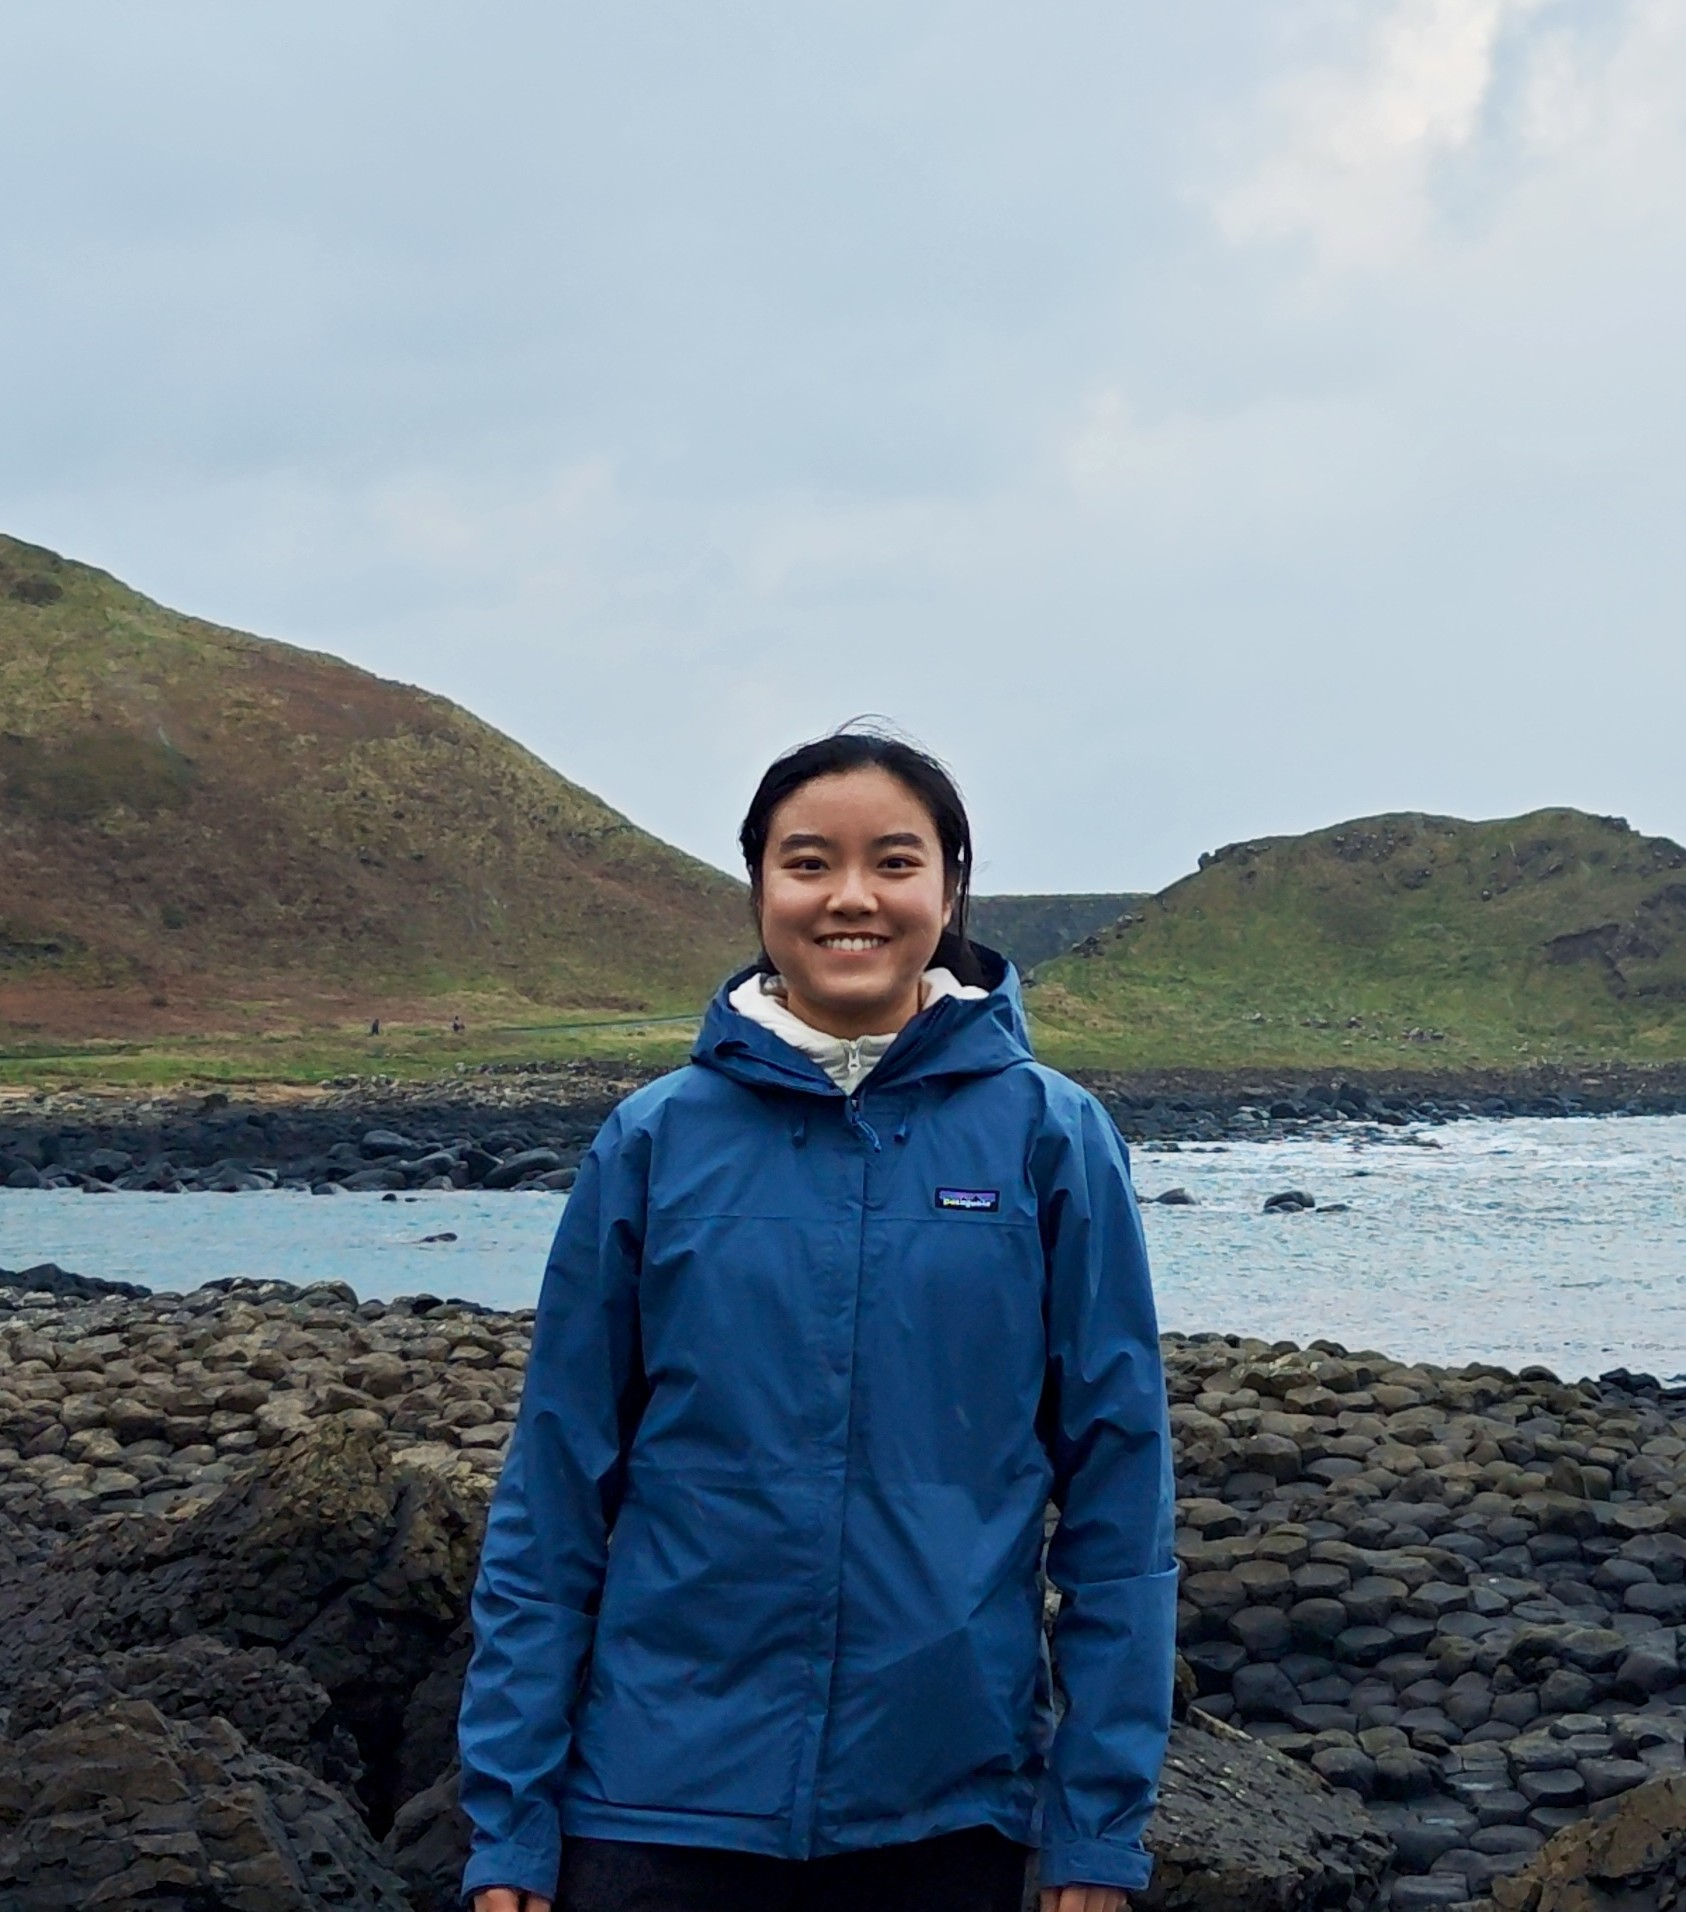
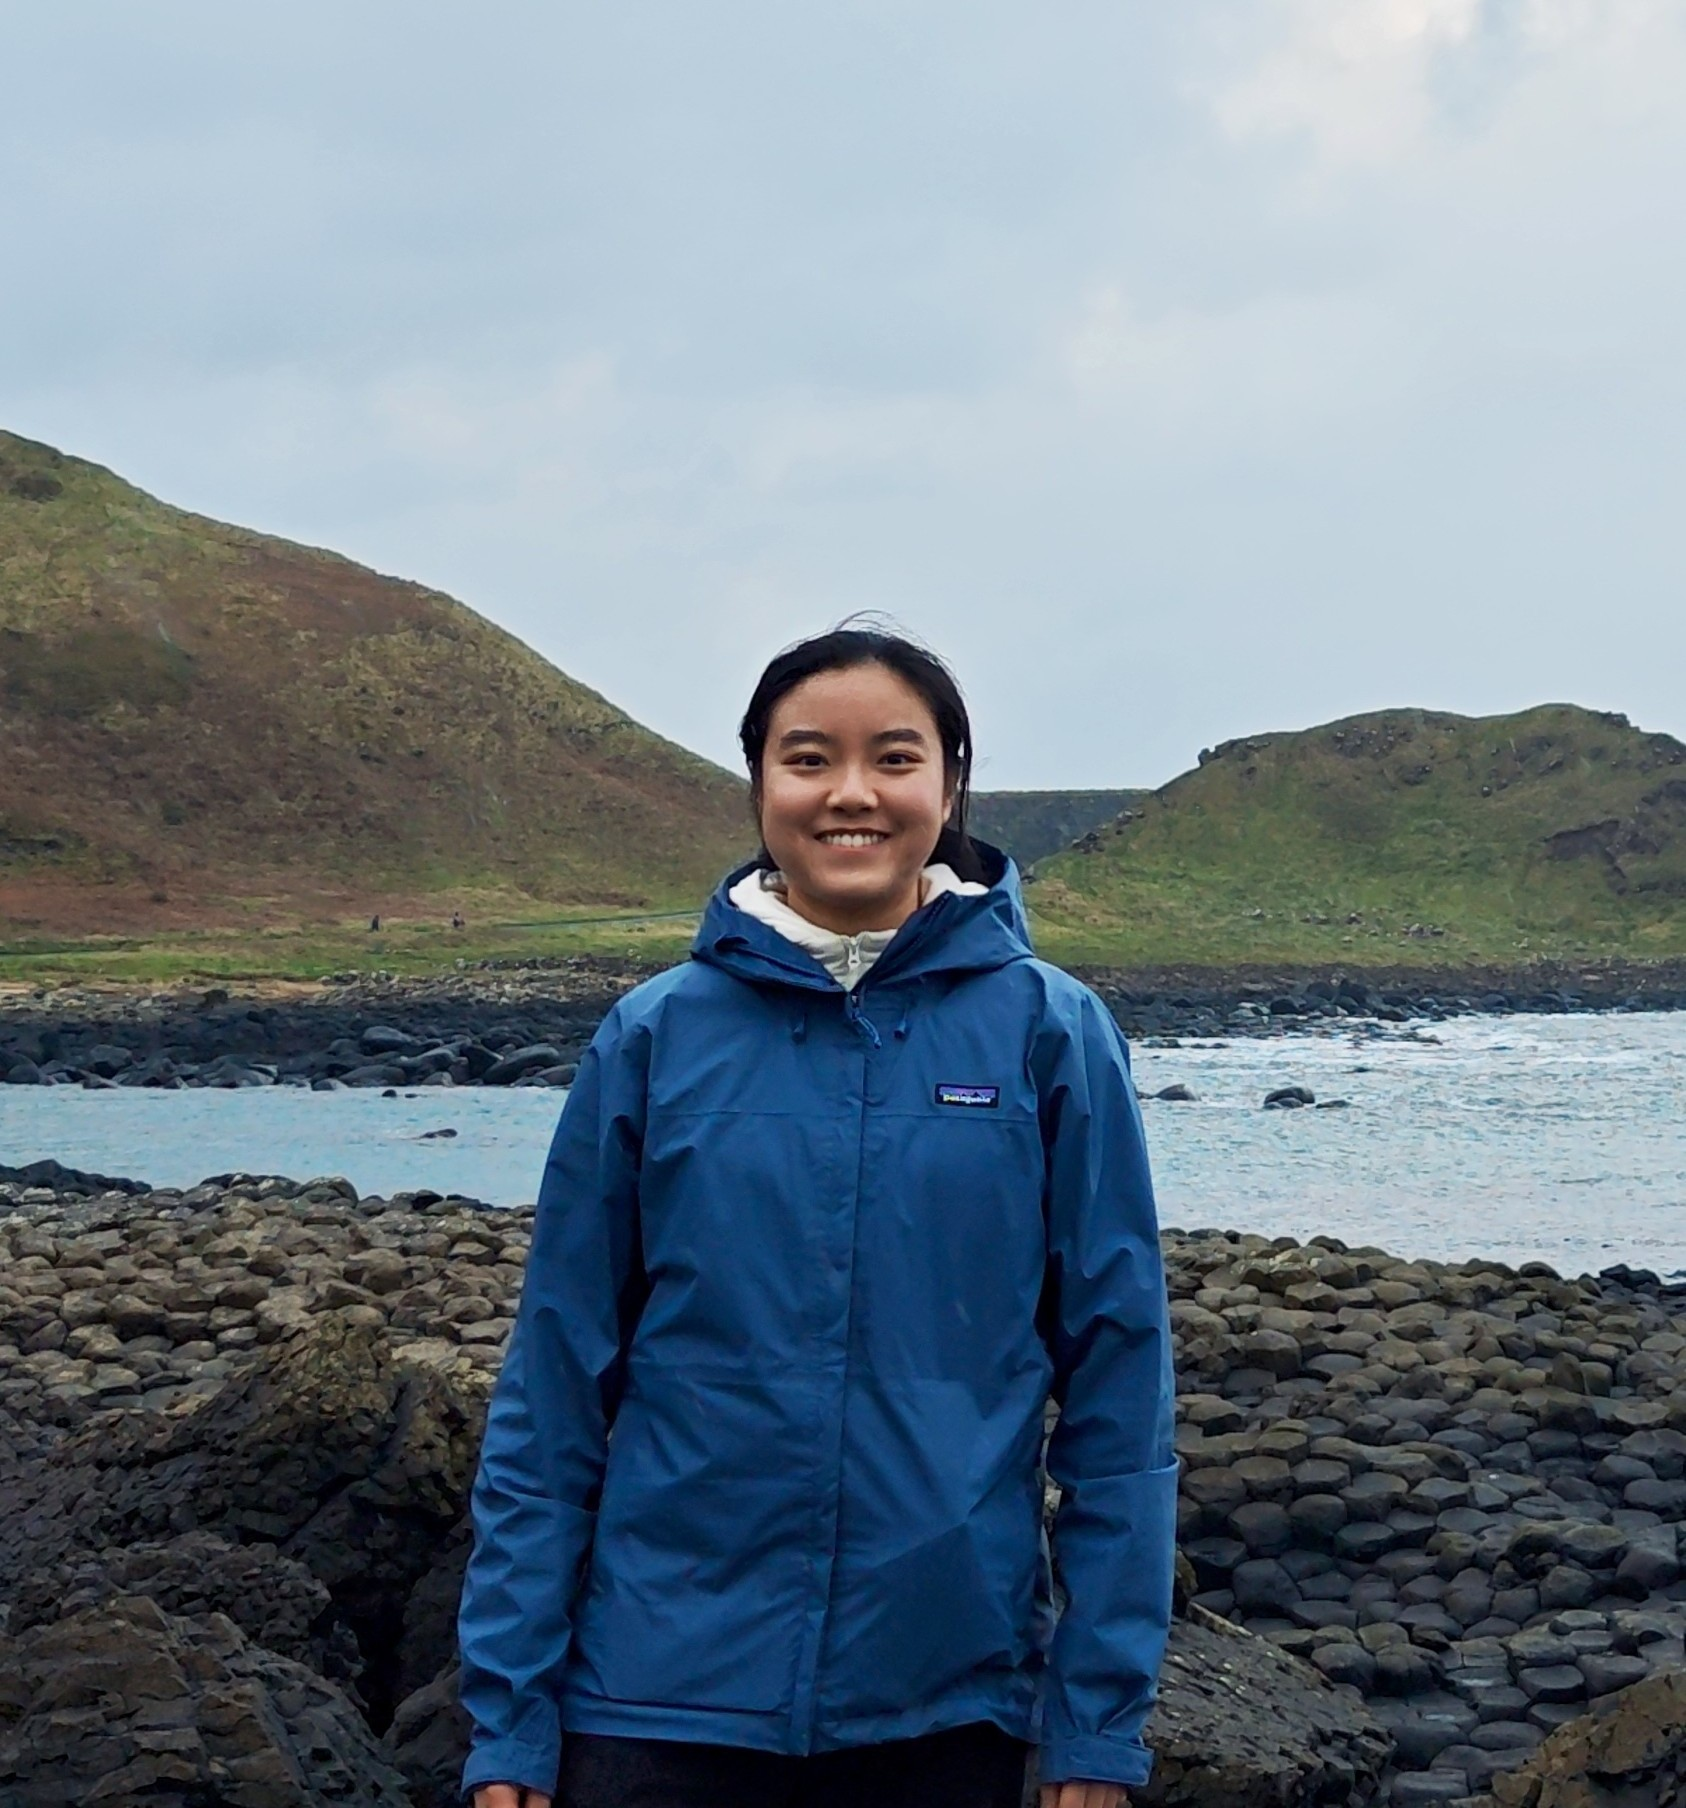
fix

diff --git a/index.html b/index.html
@@ -78,8 +78,7 @@ hr {border: none; border-top: 1px solid #000; margin:6px 0 26px 0;} h2 { font-si
 <p> I am currently pursuing an <strong>MSc in Digital Systems Design at the School of Electronics and Computer Science (ECS), University of Southampton</strong>. My research focuses on <strong>AI accelerator architecture and RTL design</strong>, driven by cross-layer optimization from algorithms and systems.</p> 
 <p> Since Winter 2024, I have been <strong>collaborating remotely on AI chip research and tape-out with <span class="underline"><a href="https://changchun-zhou.github.io/" target="_blank">Dr. Changchun Zhou</a></span>.</strong></p>         
 <p> I received my <strong>BEng in Microelectronics Science and Engineering from Harbin Institute of Technology</strong> in June 2025. </p>
-<p> My master project focuses on the design and implementation of neural networks on physical neural networks (PNN) or physics-inspired engines, 
-    under the supervision of <span class="underline"><a href="https://www.southampton.ac.uk/people/657yc8/doctor-sajjad-taravati" target="_blank">Dr. Sajjad Taravati</a></span>. </p> 
+<p> My master project focuses on the design and implementation of neural networks on physical neural networks (PNN), under the supervision of <span class="underline"><a href="https://www.southampton.ac.uk/people/657yc8/doctor-sajjad-taravati" target="_blank">Dr. Sajjad Taravati</a></span>. </p> 
 
 <p> My research spans full-stack optimization from algorithm to hardware for AI chip, including:</p><ul>
 <li>Algorithm-to-hardware design and implementation of AI chips</li>
@@ -119,7 +118,9 @@ hr {border: none; border-top: 1px solid #000; margin:6px 0 26px 0;} h2 { font-si
 
 <hr><section id="Research and Projects"><div class="section-title"><span class="section-icon">🚀</span><h2>Projects</h2></div>
 <div class="proj-item"><div class="proj-header"><div><strong>Volans LLM Chip</strong><br> NPU Subsystem Microarchitecture Co-designer and Developer &nbsp;&nbsp; | &nbsp;&nbsp; Supervised by Dr. Changchun Zhou</div> <div class="proj-date">Feb 2026-Present </div> </div>
-<ul><li>Co-designed the microarchitecture of a research-oriented LLM accelerator with stage-level functional partitioning and implementing modules at RTL level.</li> </ul></div>
+<ul><li>Based on the limited arithmetic intensity of GEMV, implement NPU part of the proposed new datapath for GEMM integrated into a RISC-V processor within an SoC;</li> </ul>
+<ul><li>Co-designed the microarchitecture of a research-oriented LLM accelerator with 8 AXI-Stream stage-level functional partitioning and implementing multiple modules at RTL level.</li> </ul></div>
+<img src="Volans.png" alt="Volans LLM Chip architecture" style="width:100%; max-width:600px; margin-top:10px;">
 
 <div class="proj-item"><div class="proj-header"><div><strong>Fornax Diffusion Chip</strong><br> OCI Module Developer, UFP Module Co-developer &nbsp;&nbsp; | &nbsp;&nbsp; Supervised by Dr. Changchun Zhou</div> <div class="proj-date">12/2025-Present </div> </div>
 <ul><li>Proposed the Quantization-Aware Polynomial Approximation Algorithm (QADP) based on Chebyshev. Built a configurable Python toolchain for design-space exploration and error-resource trade-off analysis.</li></ul>
